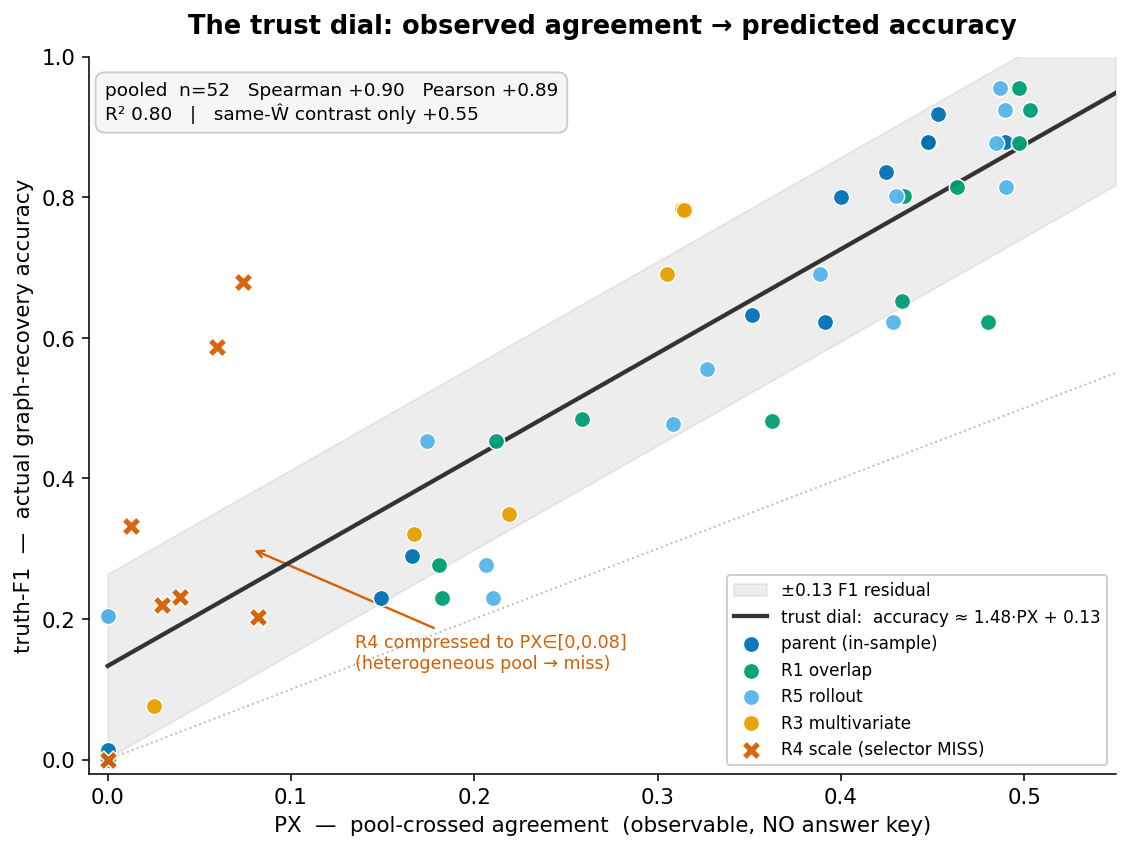
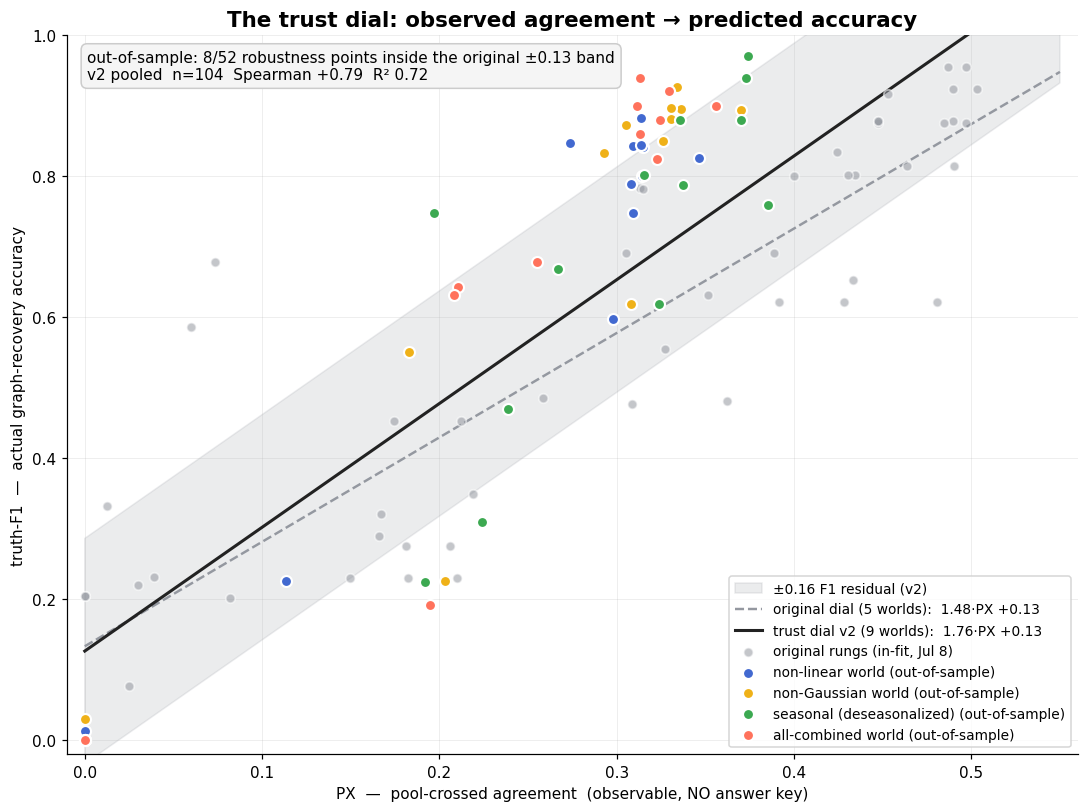
trust dial v2: robustness worlds as out-of-sample test — RANKING transfers (Spearman +0.81, Pearson +0.93) but new points sit ~+0.14 F1 above the Jul-8 line (8/52 in old band); pooled refit over 9 worlds: accuracy ~ 1.76*PX + 0.13 (Spearman +0.79, R2 0.72, resid +/-0.16); CI-test switch (ParCorr->Ro

diff --git a/analysis/plot_trust_dial.py b/analysis/plot_trust_dial.py
@@ -1,0 +1,155 @@
+"""
+Trust dial v2: original 5-rung calibration + robustness worlds as an
+OUT-OF-SAMPLE test, then a refit including them.
+
+The original dial (accuracy ~ 1.48*PX + 0.13, resid +/-0.13) was fit 2026-07-08
+on the five pre-registered rungs. The 2026-07-15/16 robustness worlds were never
+seen by that fit, so they test whether the line TRANSFERS: what fraction of new
+per-candidate (PX, truth-F1) points fall inside the original +/-1 residual band?
+
+overlapseas_raw is excluded from calibration on the pre-registered precondition
+that seasonal inputs must be deseasonalized (its rung result: PX uninformative
+on raw series, Spearman +0.13); it is still reported in the printout.
+
+Renders results/plots/trust_dial.png (supersedes the 2026-07-08 figure) and
+saves results/litext_e4_final_calibration_v2.npy.
+"""
+import collections
+import os
+
+import numpy as np
+from scipy import stats
+import matplotlib
+matplotlib.use("Agg")
+import matplotlib.pyplot as plt
+
+ROOT = os.path.dirname(os.path.dirname(os.path.abspath(__file__)))
+
+ORIG_RUNGS = [  # the 2026-07-08 pre-registered fit
+    ("parent",      ""),
+    ("R1_overlap",  "_overlap02"),
+    ("R5_rollout",  "_overlap02_rollout"),
+    ("R4_scale",    "_scale24"),
+    ("R3_multivar", "_multivar"),
+]
+NEW_RUNGS = [   # 2026-07-15/16 robustness worlds (out-of-sample for the old fit)
+    ("NL_nlgauss",     "_nlgauss"),
+    ("NG_linskew",     "_linskew"),
+    ("seas_deseas",    "_overlapseas_deseas"),
+    ("combined_fine",  "_finecadence"),
+]
+EXCLUDED = [("seas_raw", "_overlapseas_raw")]  # precondition violated; report only
+
+
+def load_points(rungs):
+    recs = []  # (rung, cand, PX, f1_pair)
+    for name, tag in rungs:
+        f = os.path.join(ROOT, "results", f"litext_e4_agreement{tag}.npy")
+        if not os.path.exists(f):
+            print(f"[skip] {name}: {f} missing")
+            continue
+        d = np.load(f, allow_pickle=True).item()
+        px, rows = d["px"], d["rows"]
+        for cand in px:
+            if cand in rows and np.isfinite(rows[cand].get("f1_pair", np.nan)):
+                recs.append((name, cand, float(px[cand]), float(rows[cand]["f1_pair"])))
+    return recs
+
+
+old = load_points(ORIG_RUNGS)
+new = load_points(NEW_RUNGS)
+raw = load_points(EXCLUDED)
+
+PXo = np.array([r[2] for r in old]); F1o = np.array([r[3] for r in old])
+PXn = np.array([r[2] for r in new]); F1n = np.array([r[3] for r in new])
+
+# --- original dial, recomputed exactly as e4_final_calibration.py ------------
+sl, ic, r, p, se = stats.linregress(PXo, F1o)
+resid_o = F1o - (sl * PXo + ic)
+band = resid_o.std()
+print(f"original dial (n={len(old)}): accuracy ~ {sl:.2f}*PX {ic:+.2f}  "
+      f"R2={r**2:.3f}  resid std={band:.3f}")
+
+# --- out-of-sample test -------------------------------------------------------
+pred = sl * PXn + ic
+res_n = F1n - pred
+inside = np.abs(res_n) <= band
+sp_n = stats.spearmanr(PXn, F1n).statistic
+pe_n = stats.pearsonr(PXn, F1n)[0]
+print(f"\nOUT-OF-SAMPLE robustness worlds (n={len(new)}):")
+print(f"  within +/-{band:.2f} band of OLD line: {inside.sum()}/{len(new)} "
+      f"({100*inside.mean():.0f}%)")
+print(f"  new-point residual vs old line: mean {res_n.mean():+.3f}, std {res_n.std():.3f}")
+print(f"  Spearman(PX, F1) on new points  = {sp_n:+.3f}   Pearson = {pe_n:+.3f}")
+byr = collections.defaultdict(list)
+for rrec, rr in zip(new, res_n): byr[rrec[0]].append(rr)
+for name, rs in byr.items():
+    print(f"    {name:<14} n={len(rs):2d}  mean resid {np.mean(rs):+.3f}")
+if raw:
+    PXr = np.array([r[2] for r in raw]); F1r = np.array([r[3] for r in raw])
+    rr = F1r - (sl * PXr + ic)
+    print(f"  [excluded] seas_raw n={len(raw)}: {np.mean(np.abs(rr) <= band)*100:.0f}% "
+          f"in band, Spearman {stats.spearmanr(PXr, F1r).statistic:+.3f} "
+          f"(precondition: deseasonalize first)")
+
+# --- refit v2 = original + robustness worlds ----------------------------------
+PX2 = np.concatenate([PXo, PXn]); F12 = np.concatenate([F1o, F1n])
+sl2, ic2, r2, p2, se2 = stats.linregress(PX2, F12)
+resid2 = F12 - (sl2 * PX2 + ic2)
+band2 = resid2.std()
+sp2 = stats.spearmanr(PX2, F12).statistic
+print(f"\nTRUST DIAL v2 (n={len(PX2)}, 9 worlds): accuracy ~ {sl2:.2f}*PX {ic2:+.2f}  "
+      f"Spearman {sp2:+.3f}  R2={r2**2:.3f}  resid std={band2:.3f}")
+
+np.save(os.path.join(ROOT, "results", "litext_e4_final_calibration_v2.npy"),
+        dict(old_recs=old, new_recs=new, raw_recs=raw,
+             old_fit=dict(slope=sl, icept=ic, r2=r**2, resid_std=band),
+             oos=dict(n=len(new), frac_in_band=float(inside.mean()),
+                      resid_mean=float(res_n.mean()), resid_std=float(res_n.std()),
+                      spearman=sp_n, pearson=pe_n),
+             v2_fit=dict(slope=sl2, icept=ic2, r2=r2**2, resid_std=band2,
+                         spearman=sp2)),
+        allow_pickle=True)
+print("saved -> results/litext_e4_final_calibration_v2.npy")
+
+# --- figure -------------------------------------------------------------------
+NEW_COLORS = {          # fixed categorical order
+    "NL_nlgauss":    ("#4269D0", "non-linear world"),
+    "NG_linskew":    ("#EFB118", "non-Gaussian world"),
+    "seas_deseas":   ("#3CA951", "seasonal (deseasonalized)"),
+    "combined_fine": ("#FF725C", "all-combined world"),
+}
+fig, ax = plt.subplots(figsize=(10, 7.5))
+xx = np.linspace(0, max(PX2.max(), 0.55), 100)
+ax.fill_between(xx, sl2 * xx + ic2 - band2, sl2 * xx + ic2 + band2,
+                color="#9498A0", alpha=0.18,
+                label=f"±{band2:.2f} F1 residual (v2)")
+ax.plot(xx, sl * xx + ic, color="#9498A0", lw=1.6, ls="--",
+        label=f"original dial (5 worlds):  {sl:.2f}·PX {ic:+.2f}")
+ax.plot(xx, sl2 * xx + ic2, color="#222222", lw=2,
+        label=f"trust dial v2 (9 worlds):  {sl2:.2f}·PX {ic2:+.2f}")
+ax.scatter(PXo, F1o, s=38, color="#9498A0", alpha=0.55, edgecolors="white",
+           linewidths=1.2, label="original rungs (in-fit, Jul 8)", zorder=3)
+for name, (col, lab) in NEW_COLORS.items():
+    m = [i for i, rrec in enumerate(new) if rrec[0] == name]
+    ax.scatter(PXn[m], F1n[m], s=52, color=col, edgecolors="white",
+               linewidths=1.4, label=lab + " (out-of-sample)", zorder=4)
+ax.set_xlabel("PX  —  pool-crossed agreement  (observable, NO answer key)")
+ax.set_ylabel("truth-F1  —  actual graph-recovery accuracy")
+ax.set_title("The trust dial: observed agreement → predicted accuracy",
+             fontsize=14, fontweight="bold")
+ax.text(0.02, 0.98,
+        f"out-of-sample: {inside.sum()}/{len(new)} robustness points "
+        f"inside the original ±{band:.2f} band\n"
+        f"v2 pooled  n={len(PX2)}  Spearman {sp2:+.2f}  R² {r2**2:.2f}",
+        transform=ax.transAxes, va="top", fontsize=10,
+        bbox=dict(boxstyle="round,pad=0.4", fc="#F5F5F5", ec="#CCCCCC"))
+ax.legend(loc="lower right", fontsize=9)
+ax.grid(True, linewidth=0.4, alpha=0.35)
+for s in ("top", "right"):
+    ax.spines[s].set_visible(False)
+ax.set_xlim(-0.01, max(PX2.max(), 0.55) + 0.01); ax.set_ylim(-0.02, 1.0)
+fig.tight_layout()
+out = os.path.join(ROOT, "results", "plots", "trust_dial.png")
+fig.savefig(out, dpi=110, bbox_inches="tight")
+print("figure ->", out)

diff --git a/analysis/demo_notebook.py b/analysis/demo_notebook.py
@@ -955,14 +955,24 @@ else:
     print("fits accuracy ~= 1.48*PX + 0.13 (+/-0.13); the parent is the first rung.")
 
 # %%
-# --- VIZ: the trust-dial figure ----------------------------------------------
-# Rendered by analysis/e4_final_calibration.py -> results/plots/trust_dial.png.
+# --- VIZ: the trust-dial figure (v2, 2026-07-16) -------------------------------
+# Rendered by analysis/plot_trust_dial.py -> results/plots/trust_dial.png.
+# v2 adds the four robustness worlds as an OUT-OF-SAMPLE test of the Jul-8 dial,
+# then refits pooled (results/litext_e4_final_calibration_v2.npy).
 # In Jupyter, uncomment to display the saved figure:
 # from IPython.display import Image
 # Image(filename=os.path.join(PLOTS, "trust_dial.png"))
 print("trust-dial figure:", os.path.join(PLOTS, "trust_dial.png"))
-print("\nTAKEAWAY: from a forecaster we cannot check, PX (measured with NO answer key) "
-      "predicts recovery accuracy via one pooled line -- a calibrated trust dial.")
+print("""
+TAKEAWAY: from a forecaster we cannot check, PX (measured with NO answer key)
+predicts recovery accuracy. Out-of-sample on the 4 robustness worlds the
+RANKING transfers cleanly (Spearman +0.81, Pearson +0.93) but the ABSOLUTE
+calibration shifted: new points sit ~+0.14 F1 above the Jul-8 line (only 8/52
+inside its +/-0.13 band), so v2 refits pooled over 9 worlds:
+accuracy ~ 1.76*PX + 0.13 (Spearman +0.79, R2 0.72, residual +/-0.16).
+Caveat: the offset is confounded with the CI-test switch (old rungs ParCorr,
+new rungs RobustParCorr) -- quote the dial as rank-reliable with +/-0.16
+absolute error, not a universal constant.""")
 
 
 # %% [markdown]
